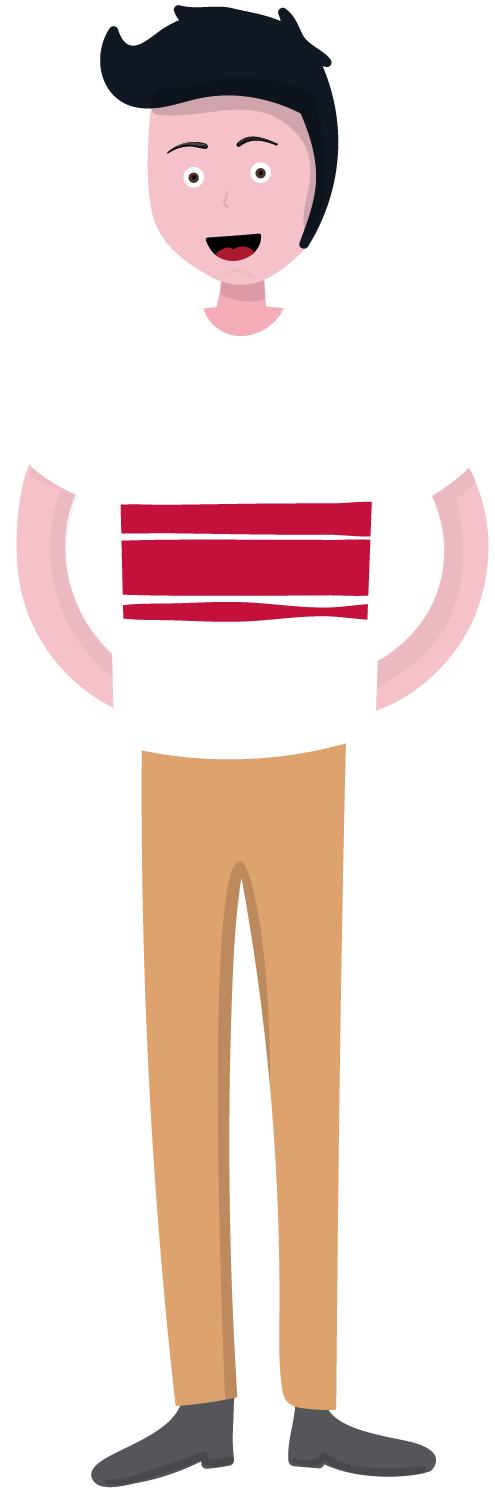
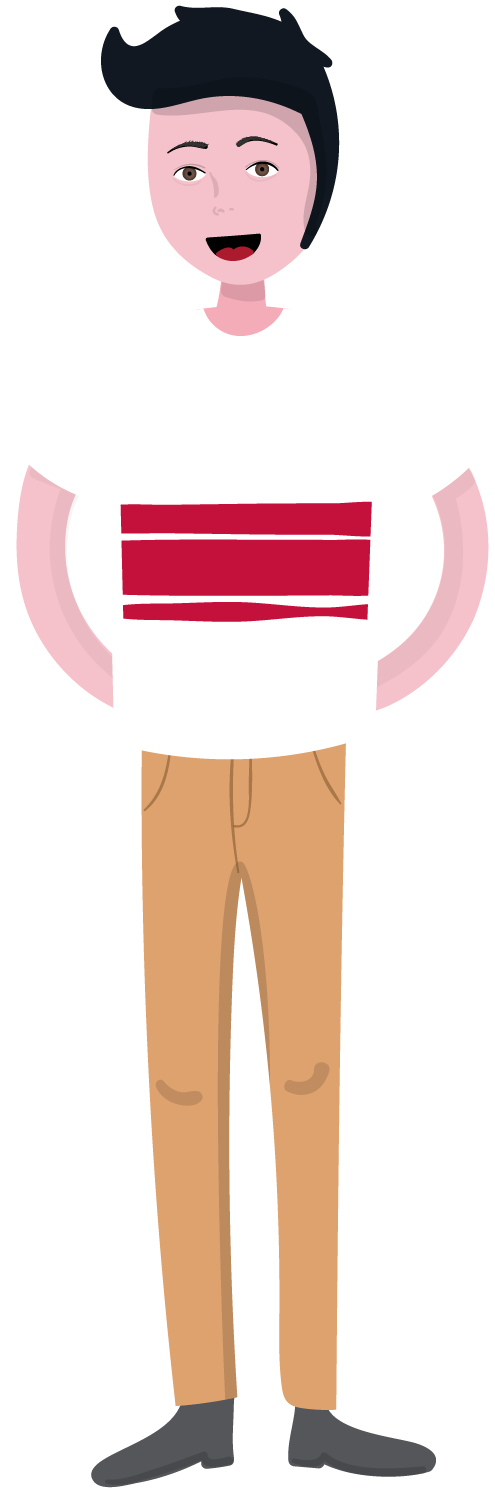
changed profile picture. Added buttons for skill details

diff --git a/public/css/skills.css b/public/css/skills.css
@@ -14,17 +14,17 @@
   border-radius: 30px;
 }
 
-.section-wrapper .section:nth-child(1) .square-icon {
+div>.section:nth-child(1) .square-icon {
 	background-image: radial-gradient(circle, #26BDE6,
                                     rgba(38,189,230,.33));
 }
 
-.section-wrapper .section:nth-child(2) .square-icon {
+div>.section:nth-child(2) .square-icon {
   background-image: radial-gradient(circle, #F66E9D,
                                     rgba(246,110,157,.33));
 }
 
-.section-wrapper .section:nth-child(3) .square-icon {
+div>.section:nth-child(3) .square-icon {
   background-image: radial-gradient(circle, #7B75CF,
                                     rgba(123,117,207,.33));
 }
@@ -33,7 +33,7 @@
   overflow: hidden;
 }
 
-.content .section {
+.content .section-wrapper .section {
   margin: auto;
   margin-top: 50px;
   width: 450px;
@@ -100,6 +100,7 @@
 
 .details {
   text-align: center;
+  height: 600px;
   color: #242424;
   transition: all 0.2s linear;
 }
@@ -224,4 +225,30 @@
   margin-top: 22px;
   width: 40%;
   height: 5px;
+}
+
+.section-mini-bar {
+  position: absolute;
+  color: white;
+  /* animation: slideUp 0.5s linear; */
+}
+
+.section-mini-bar .section {
+  display: inline-block;
+}
+
+.section-mini-bar .section:nth-child(2) {
+  margin-left: 20px;
+  margin-right: 20px;
+}
+
+@keyframes slideUp {
+  from {
+    margin-top: 1000px;
+    opacity: 0;
+  }
+  to {
+    margin-top: 70px;
+    opacity: 1;
+  }
 }

diff --git a/public/js/skills.js b/public/js/skills.js
@@ -16,12 +16,15 @@ function ready_handler() {
       $(skills[j]).css("background-color",pro_bar_colors[skills_color[content_map[groups[i].id]][j]]);
     }
   }
+
+  $(".social-media").show();
 }
 
+$(".social-media").hide();
 $(document).ready(ready_handler);
 
 // Events
-$(".content .section").click(function (event) {
+$(".section-wrapper>.section").click(function (event) {
   var id = $(this).attr("display");
   onDisplay = content_map[id];
   $(".table-header").css("border-top-color", border_color[content_map[id]]);
@@ -36,7 +39,23 @@ $(".content .section").click(function (event) {
   $(".section-wrapper").animate({width:"toggle"}, 500, "swing", function() {
     $(".details").show();
     $(".details").animate({opacity:1});
+
+    var minibarWidth = $(".section-mini-bar").width();
+    $(".section-mini-bar").css("top", $("body").height()-300);
+    $(".section-mini-bar").css("left", $("body").width()/2 - minibarWidth/2);
   });
+});
+
+$(".section-mini-bar .section").click(function() {
+  var id = $(this).attr("display");
+  nextDisplay = content_map[id];
+  if (nextDisplay != onDisplay) {
+    $("#"+content[onDisplay]).slideToggle();
+    $(".table-header").css("border-top-color", border_color[nextDisplay]);
+    $(".table-header>div:first-child span").text(content[nextDisplay].toUpperCase());
+    $("#"+content[nextDisplay]).slideToggle();
+    onDisplay = nextDisplay;
+  }
 });
 
 $(".left-button").click(function () {

diff --git a/public/js/all.js b/public/js/all.js
@@ -17,7 +17,6 @@ function initialize() {
   $(".message button").fadeIn(1000);
   $(".message p").slideDown(1000);
   $(".message p").animate({opacity:1}, 1000);
-
 }
 
 function createRipple(button, event, color) {
@@ -49,6 +48,11 @@ $(window).scroll(function() {
   else {
     $(".social-media .social-item").css({"margin-left":-60});
   }
+});
+
+$(window).resize(function() {
+  $(".section-mini-bar").css("top", $("body").height()-300);
+  $(".section-mini-bar").css("left", $("body").width()/2 - $(".section-mini-bar").width()/2);
 });
 
 $(".message button").click(function() {

diff --git a/public/css/home.css b/public/css/home.css
@@ -19,7 +19,9 @@
 }
 
 .content img {
-  width: 200px;
+  background-color: #ededed;
+  border-radius: 50%;
+  width: 300px;
   height: auto;
 }
 
@@ -37,12 +39,9 @@
 }
 
 .display-area {
-  /* background-color: white; */
   margin-top: 70px;
-  margin-right: 180px;
   width: 800px;
   height: 70%;
   text-align: left;
   font-size: 25px;
-  /* color: #242424; */
 }
